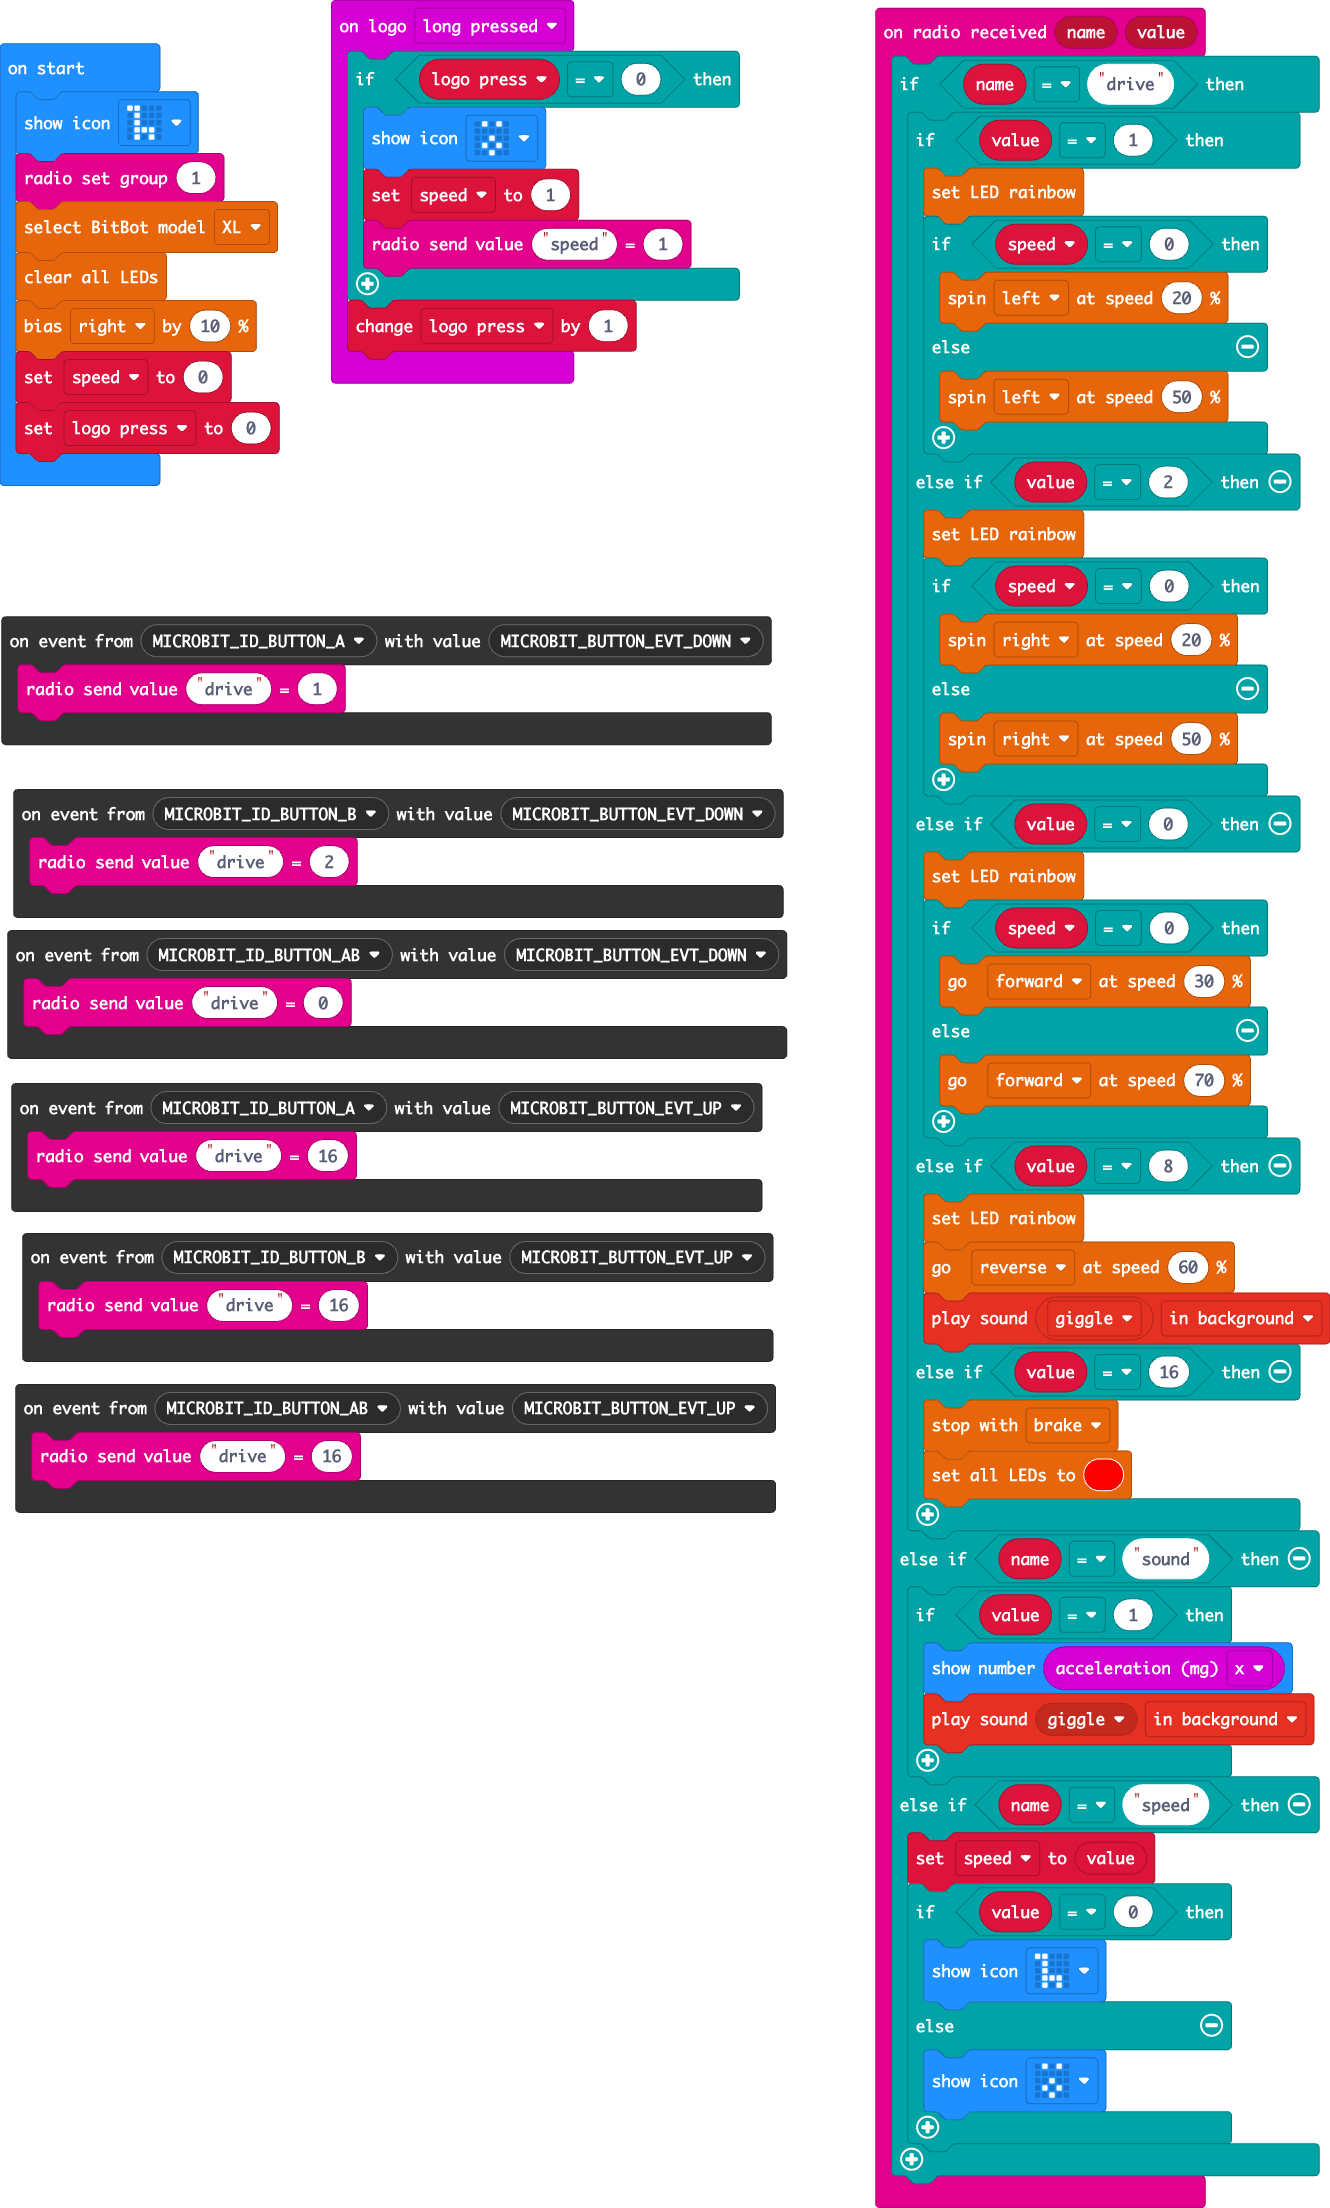
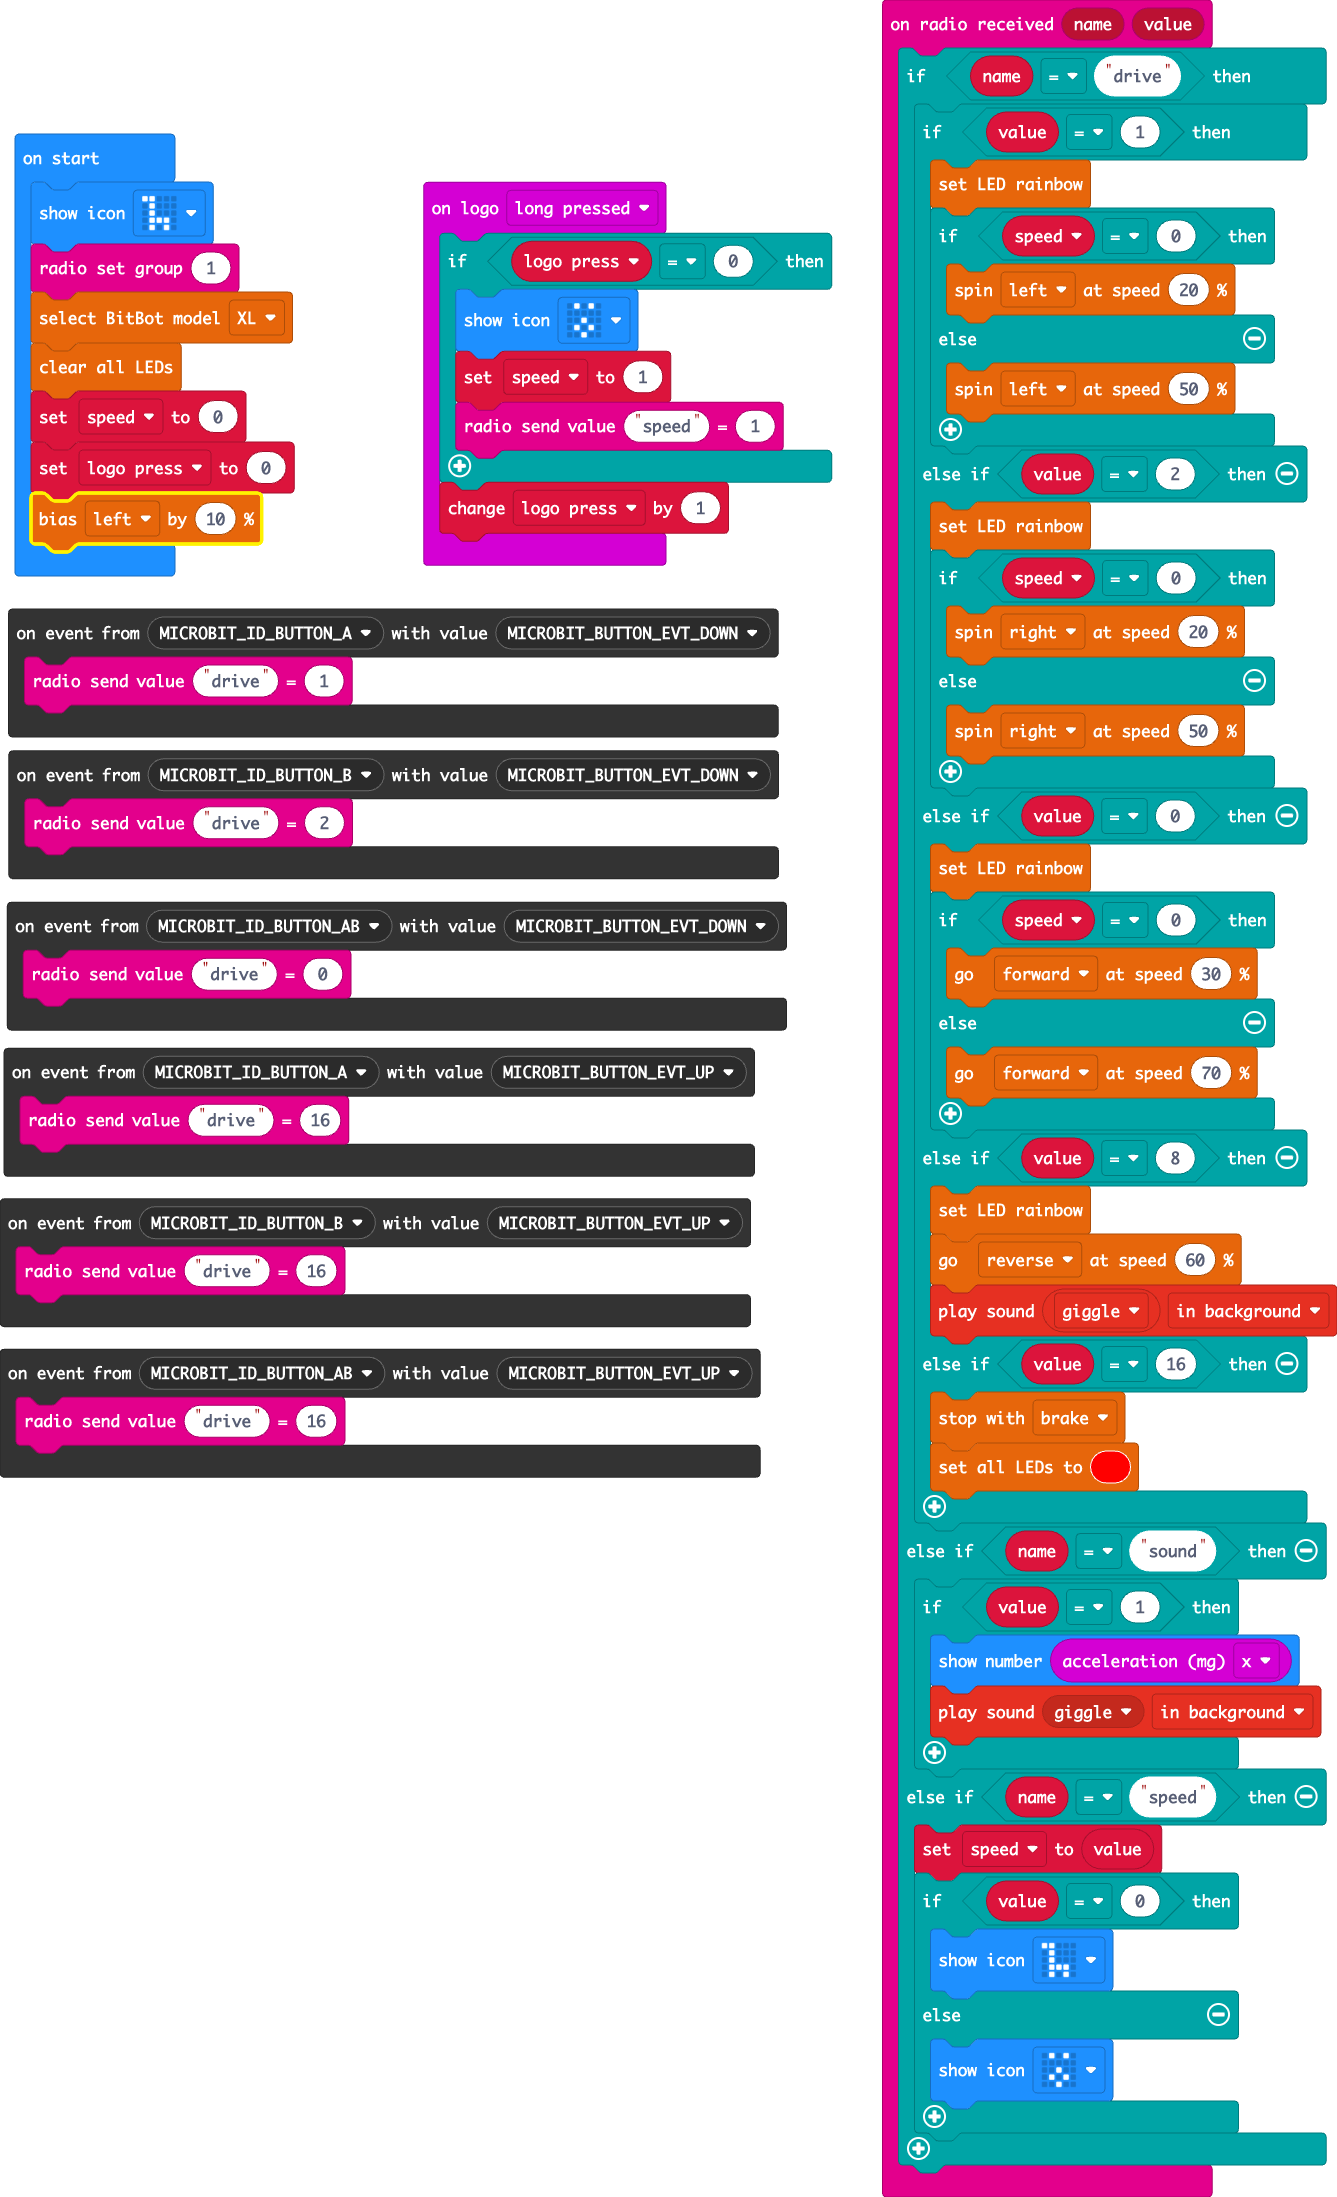
Update main.blocks, main.ts

diff --git a/main.ts b/main.ts
@@ -75,6 +75,6 @@ basic.showIcon(IconNames.Giraffe)
 radio.setGroup(1)
 bitbot.select_model(BBModel.XL)
 bitbot.ledClear()
-bitbot.BBBias(BBRobotDirection.Right, 10)
 speed = 0
 logo_press = 0
+bitbot.BBBias(BBRobotDirection.Left, 10)
